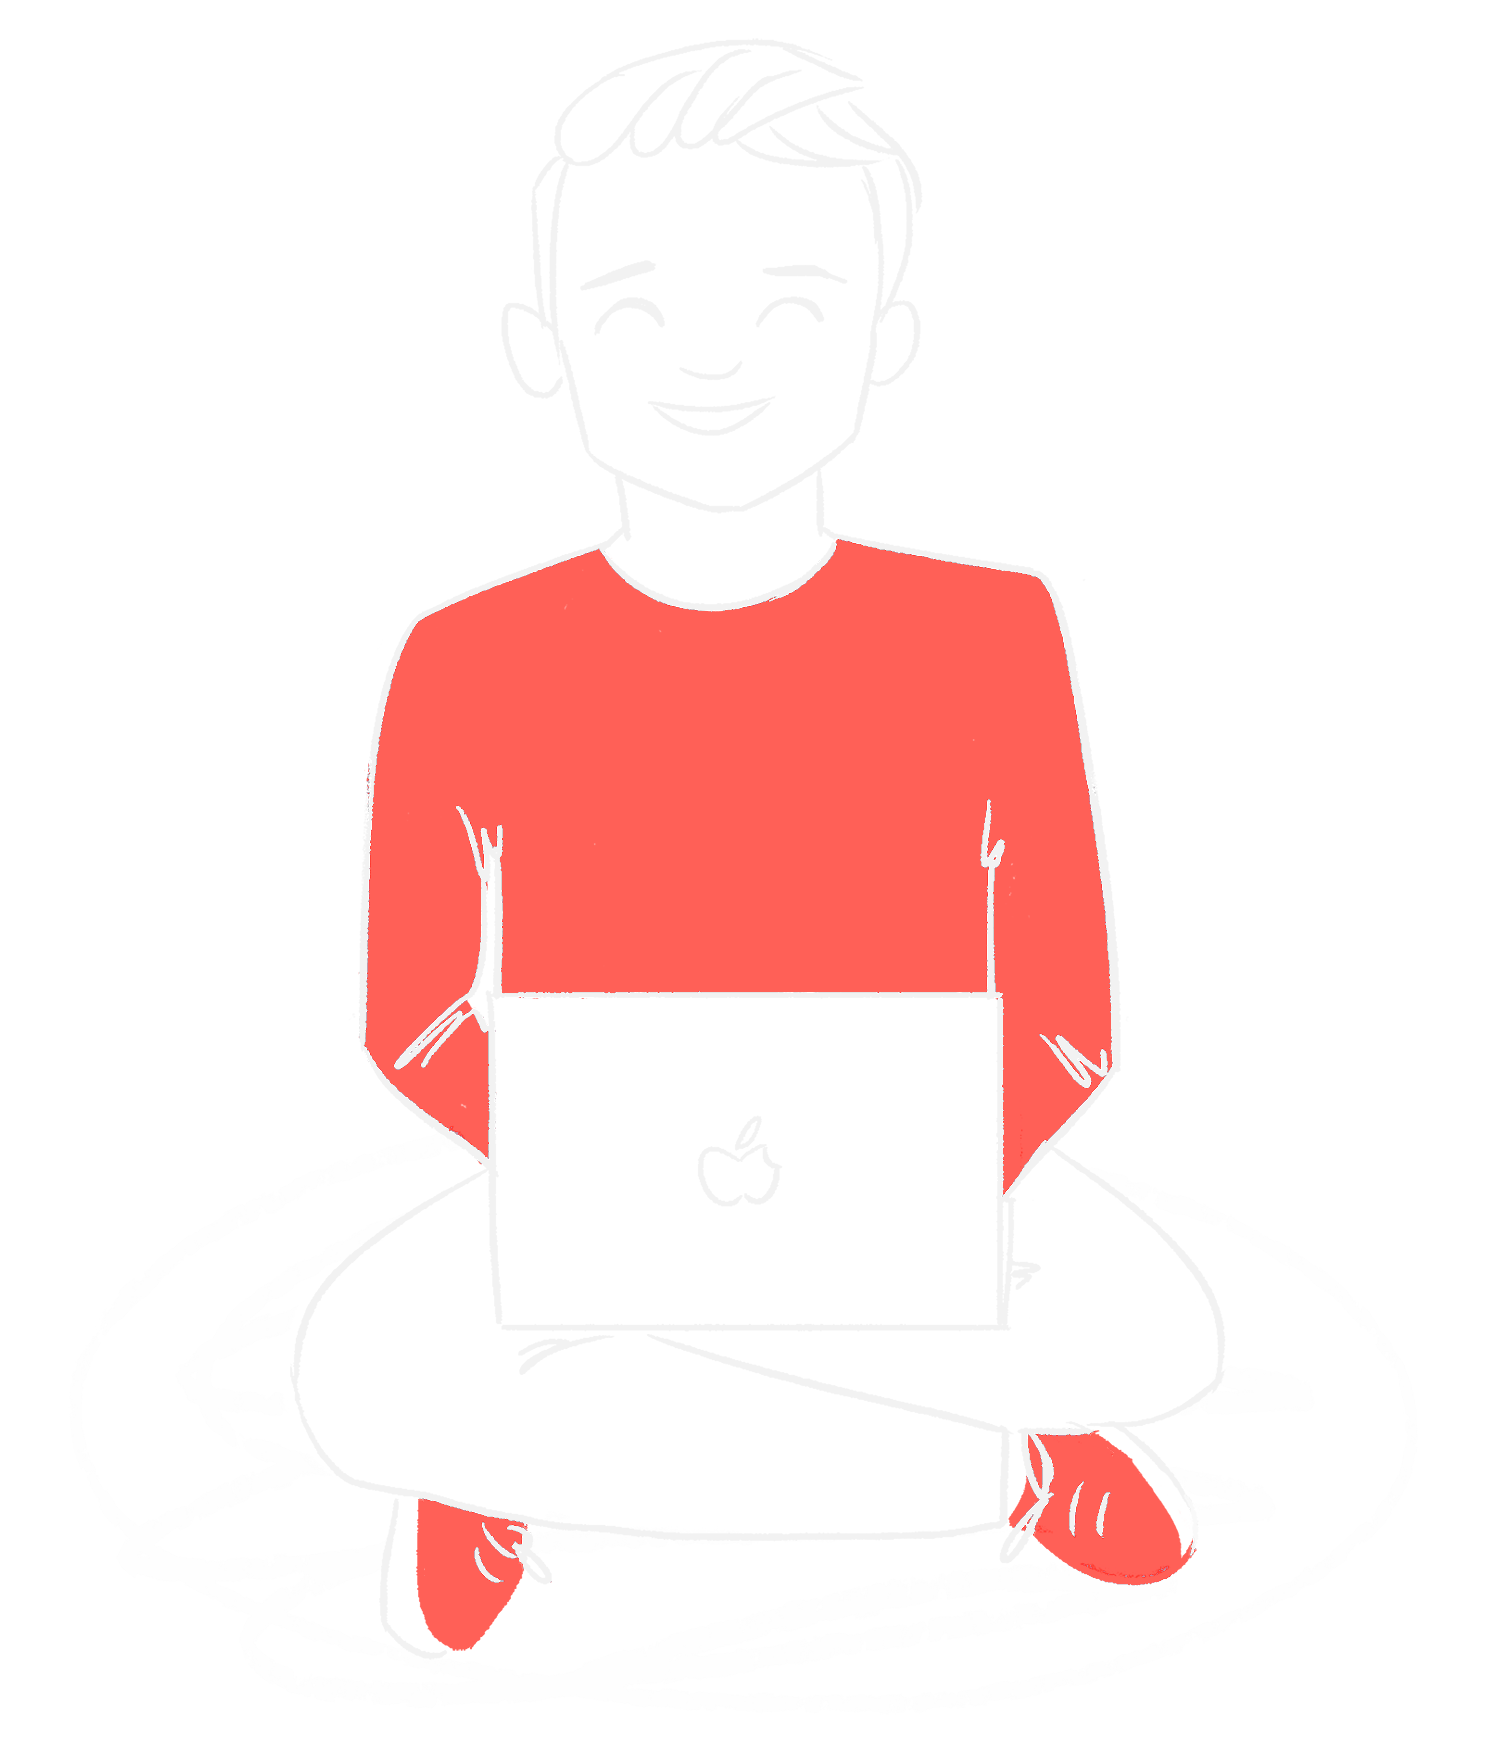
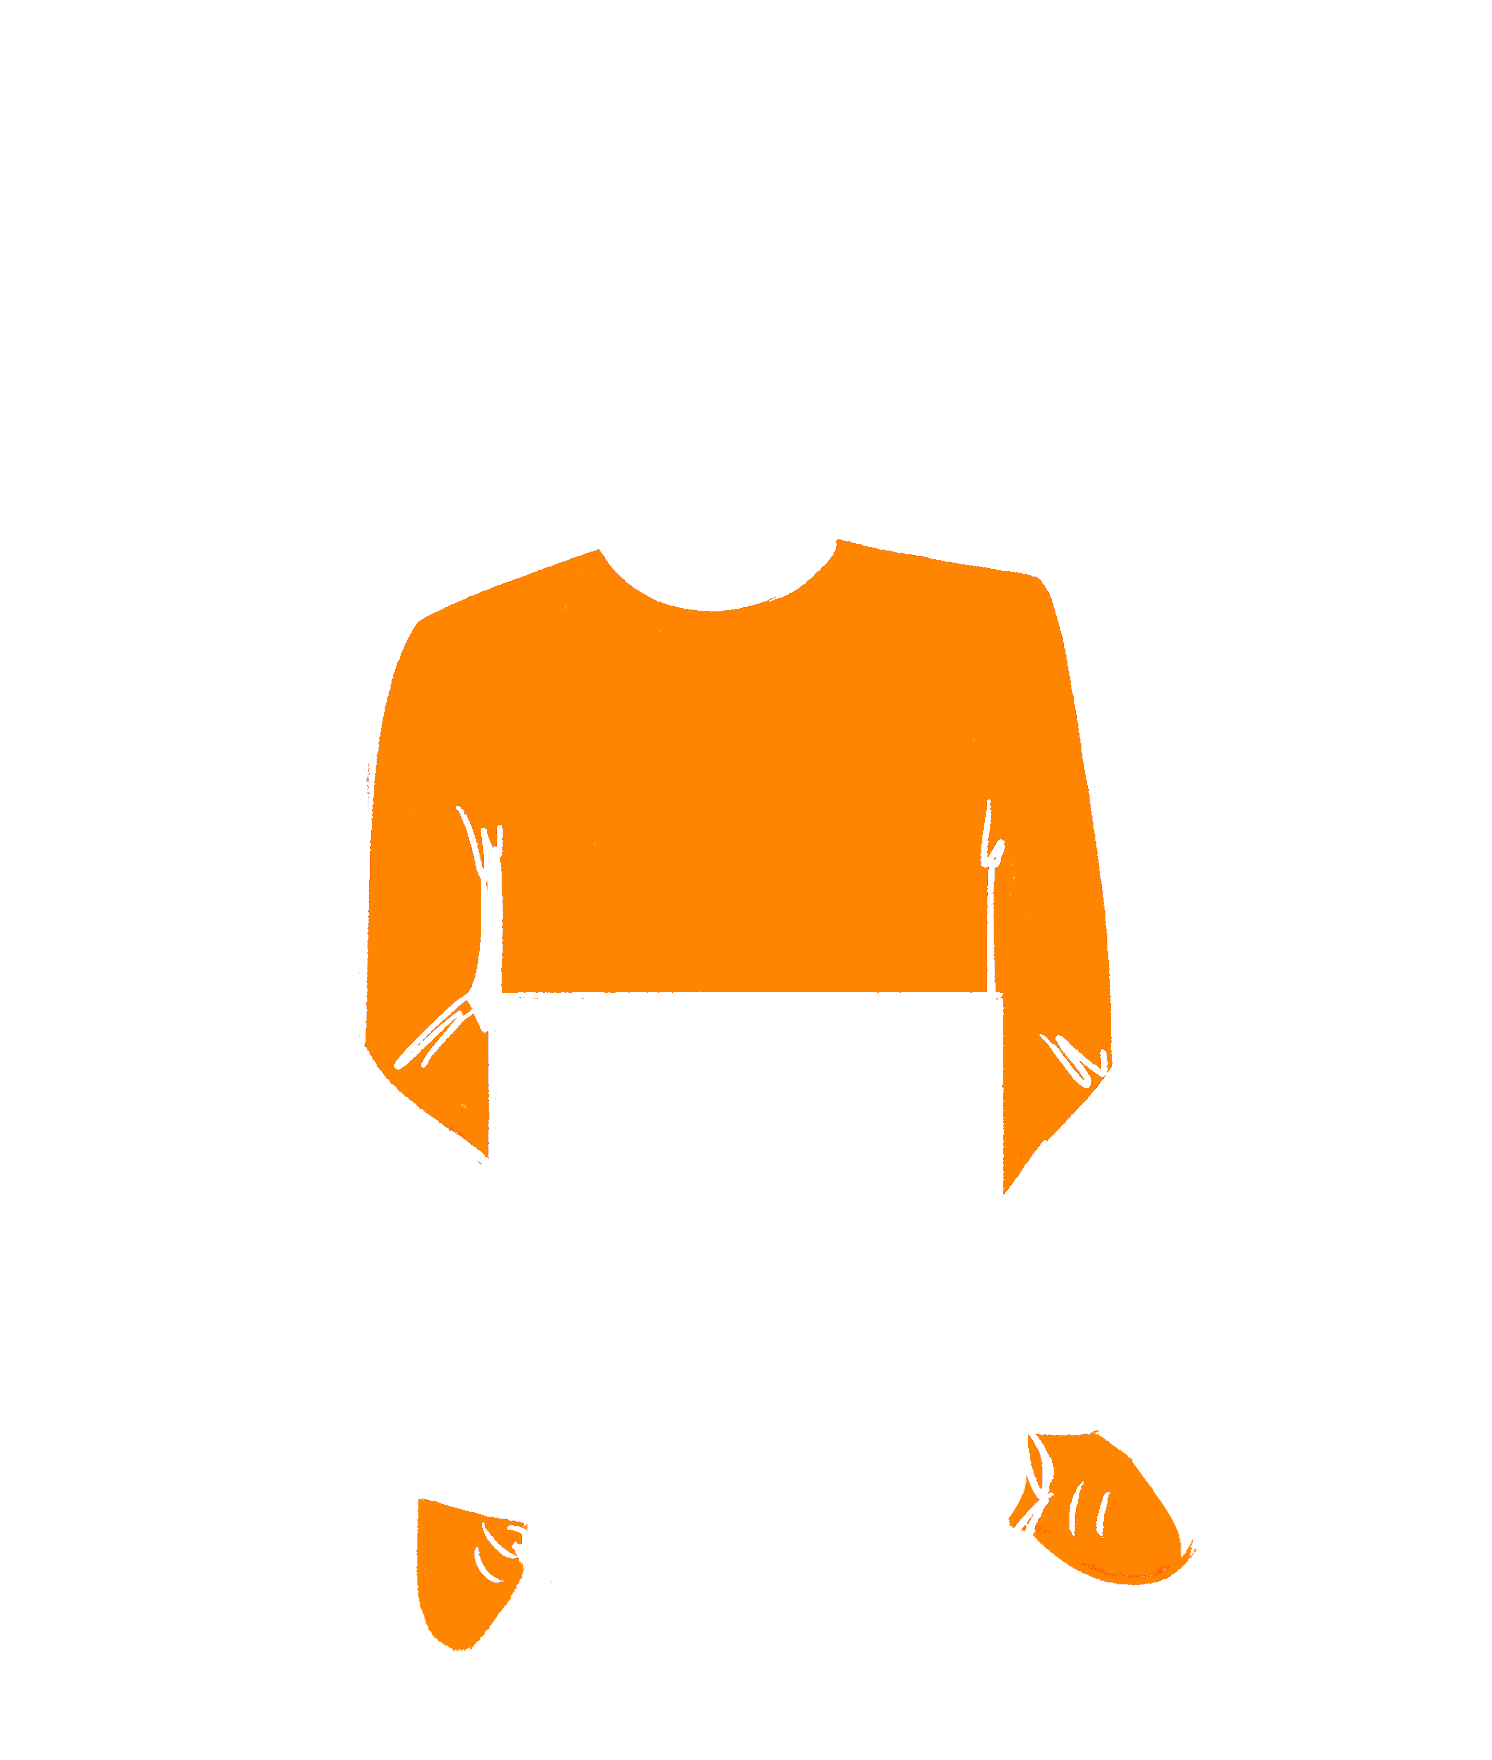
switch back to orange color pallete

Changed region(s): [[0.2466, 0.2812, 0.7708, 0.6875], [0.6783, 0.8125, 0.8016, 0.9062], [0.2775, 0.8438, 0.37, 0.9375]]

diff --git a/.vuepress/theme/styles/vars.scss b/.vuepress/theme/styles/vars.scss
@@ -6,11 +6,11 @@ $main-font: Helvetica, 'SF Pro Text', Arial, sans-serif;
 $bg-color-dark: rgb(0, 0, 0);
 $bg-color-light: #000000;
 $txt-color-light: #f2f2f2;
-$txt-color-dark: #f9746c;
+$txt-color-dark: #ff8f00;;
 
 $neutral-color: rgb(51, 51, 51);
-$accent-color: #f9746c;
-$accent-color-dark: #f9746c;
+$accent-color: #ff8f00;;
+$accent-color-dark: #ff8f00;;
 
 // Marine
 // $bg-color-dark: #0c2d7b;
